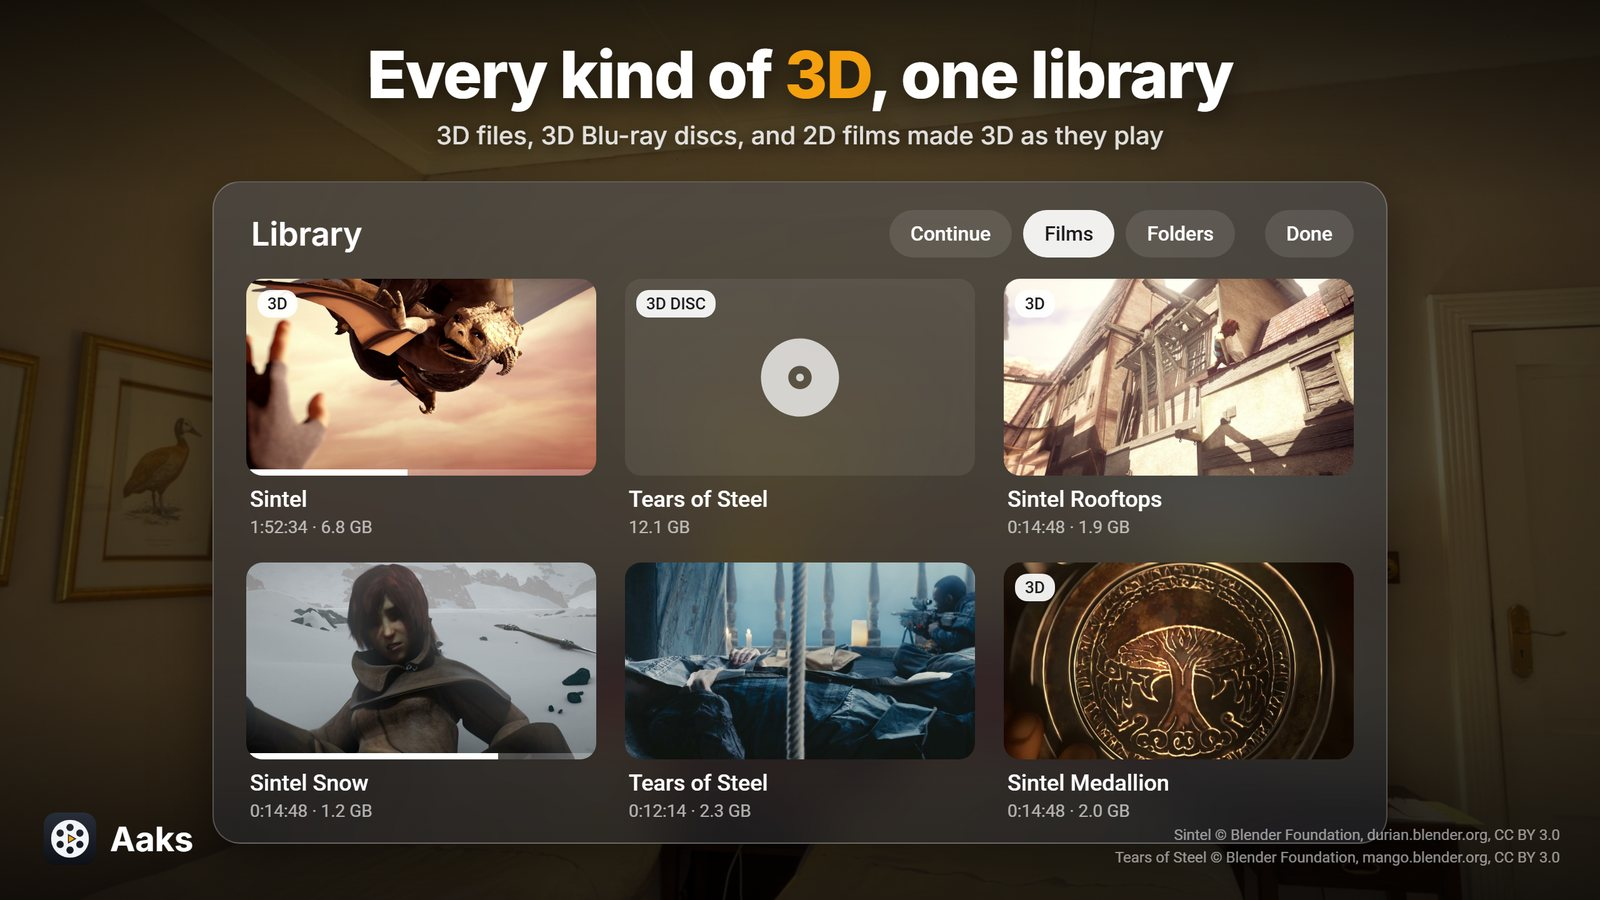
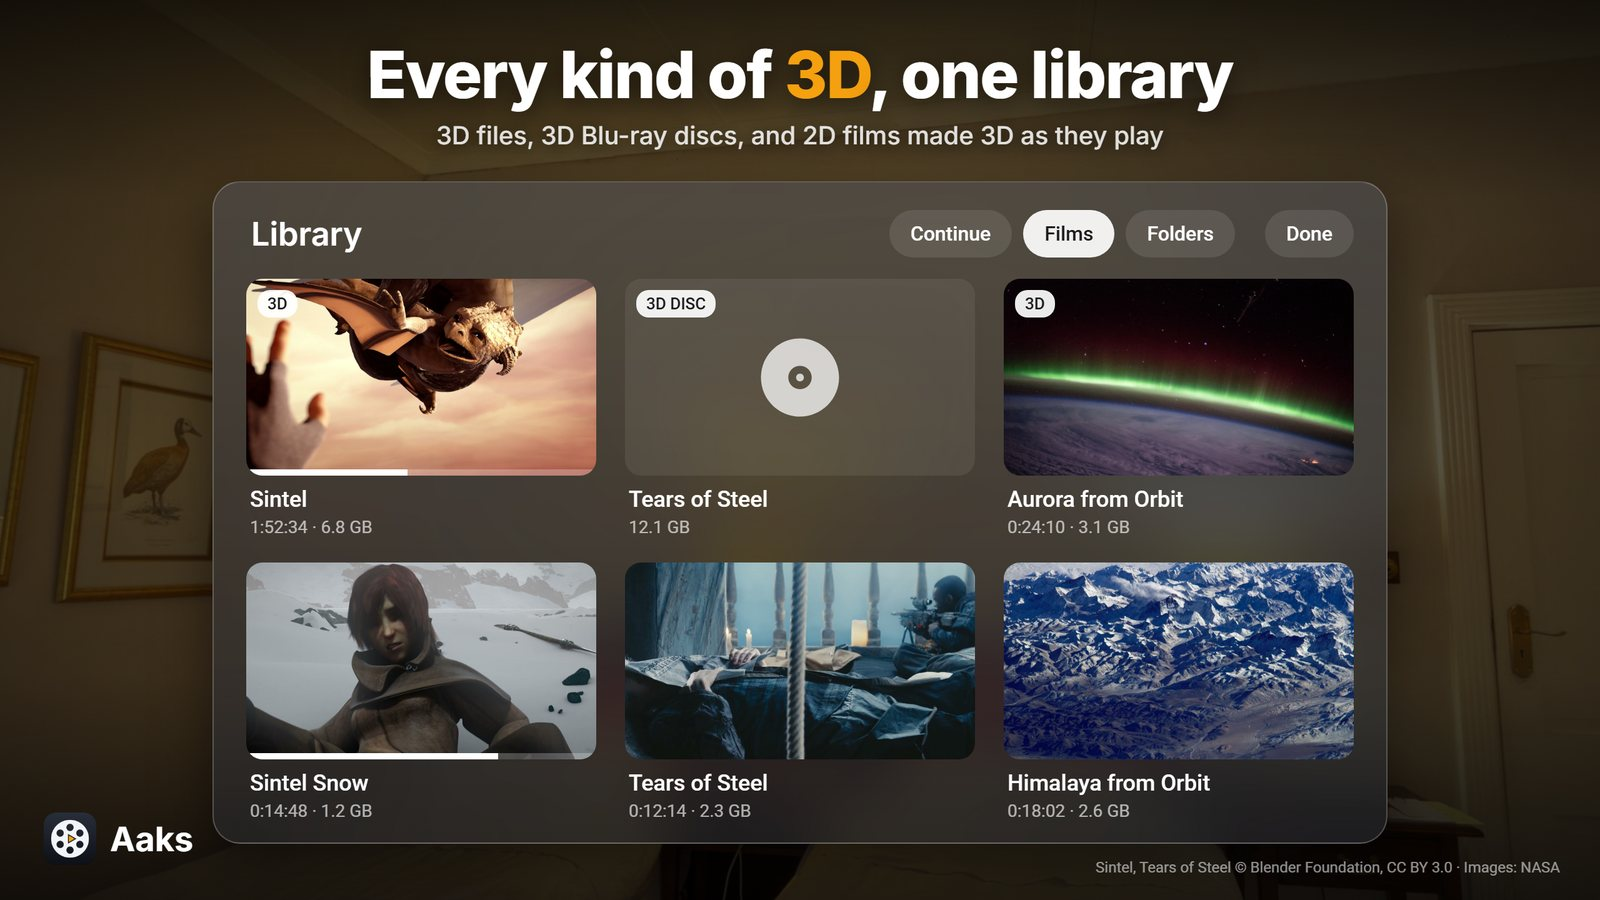
Screenshots: bigger hero screen, more varied content

Changed region(s): [[0.625, 0.6222, 0.9688, 0.9956], [0.625, 0.3111, 0.8438, 0.5911]]

diff --git a/CREDITS.md b/CREDITS.md
@@ -28,6 +28,7 @@ Cameron Gutman, Diego Waxemberg, Aaron Neyer and Andrew Hennessy, through the Op
 Sean Gilleece, both GPLv3; their copyright notices stay in the source.
 
 The screenshots show frames from [Sintel](https://durian.blender.org) and
-[Tears of Steel](https://mango.blender.org), © Blender Foundation, CC BY 3.0. The rooms are
+[Tears of Steel](https://mango.blender.org), © Blender Foundation, CC BY 3.0, and NASA
+photographs from the International Space Station (public domain). The rooms are
 panoramas from [Poly Haven](https://polyhaven.com) (CC0), and the depth map was made by the app's
 own ZipDepth model.
